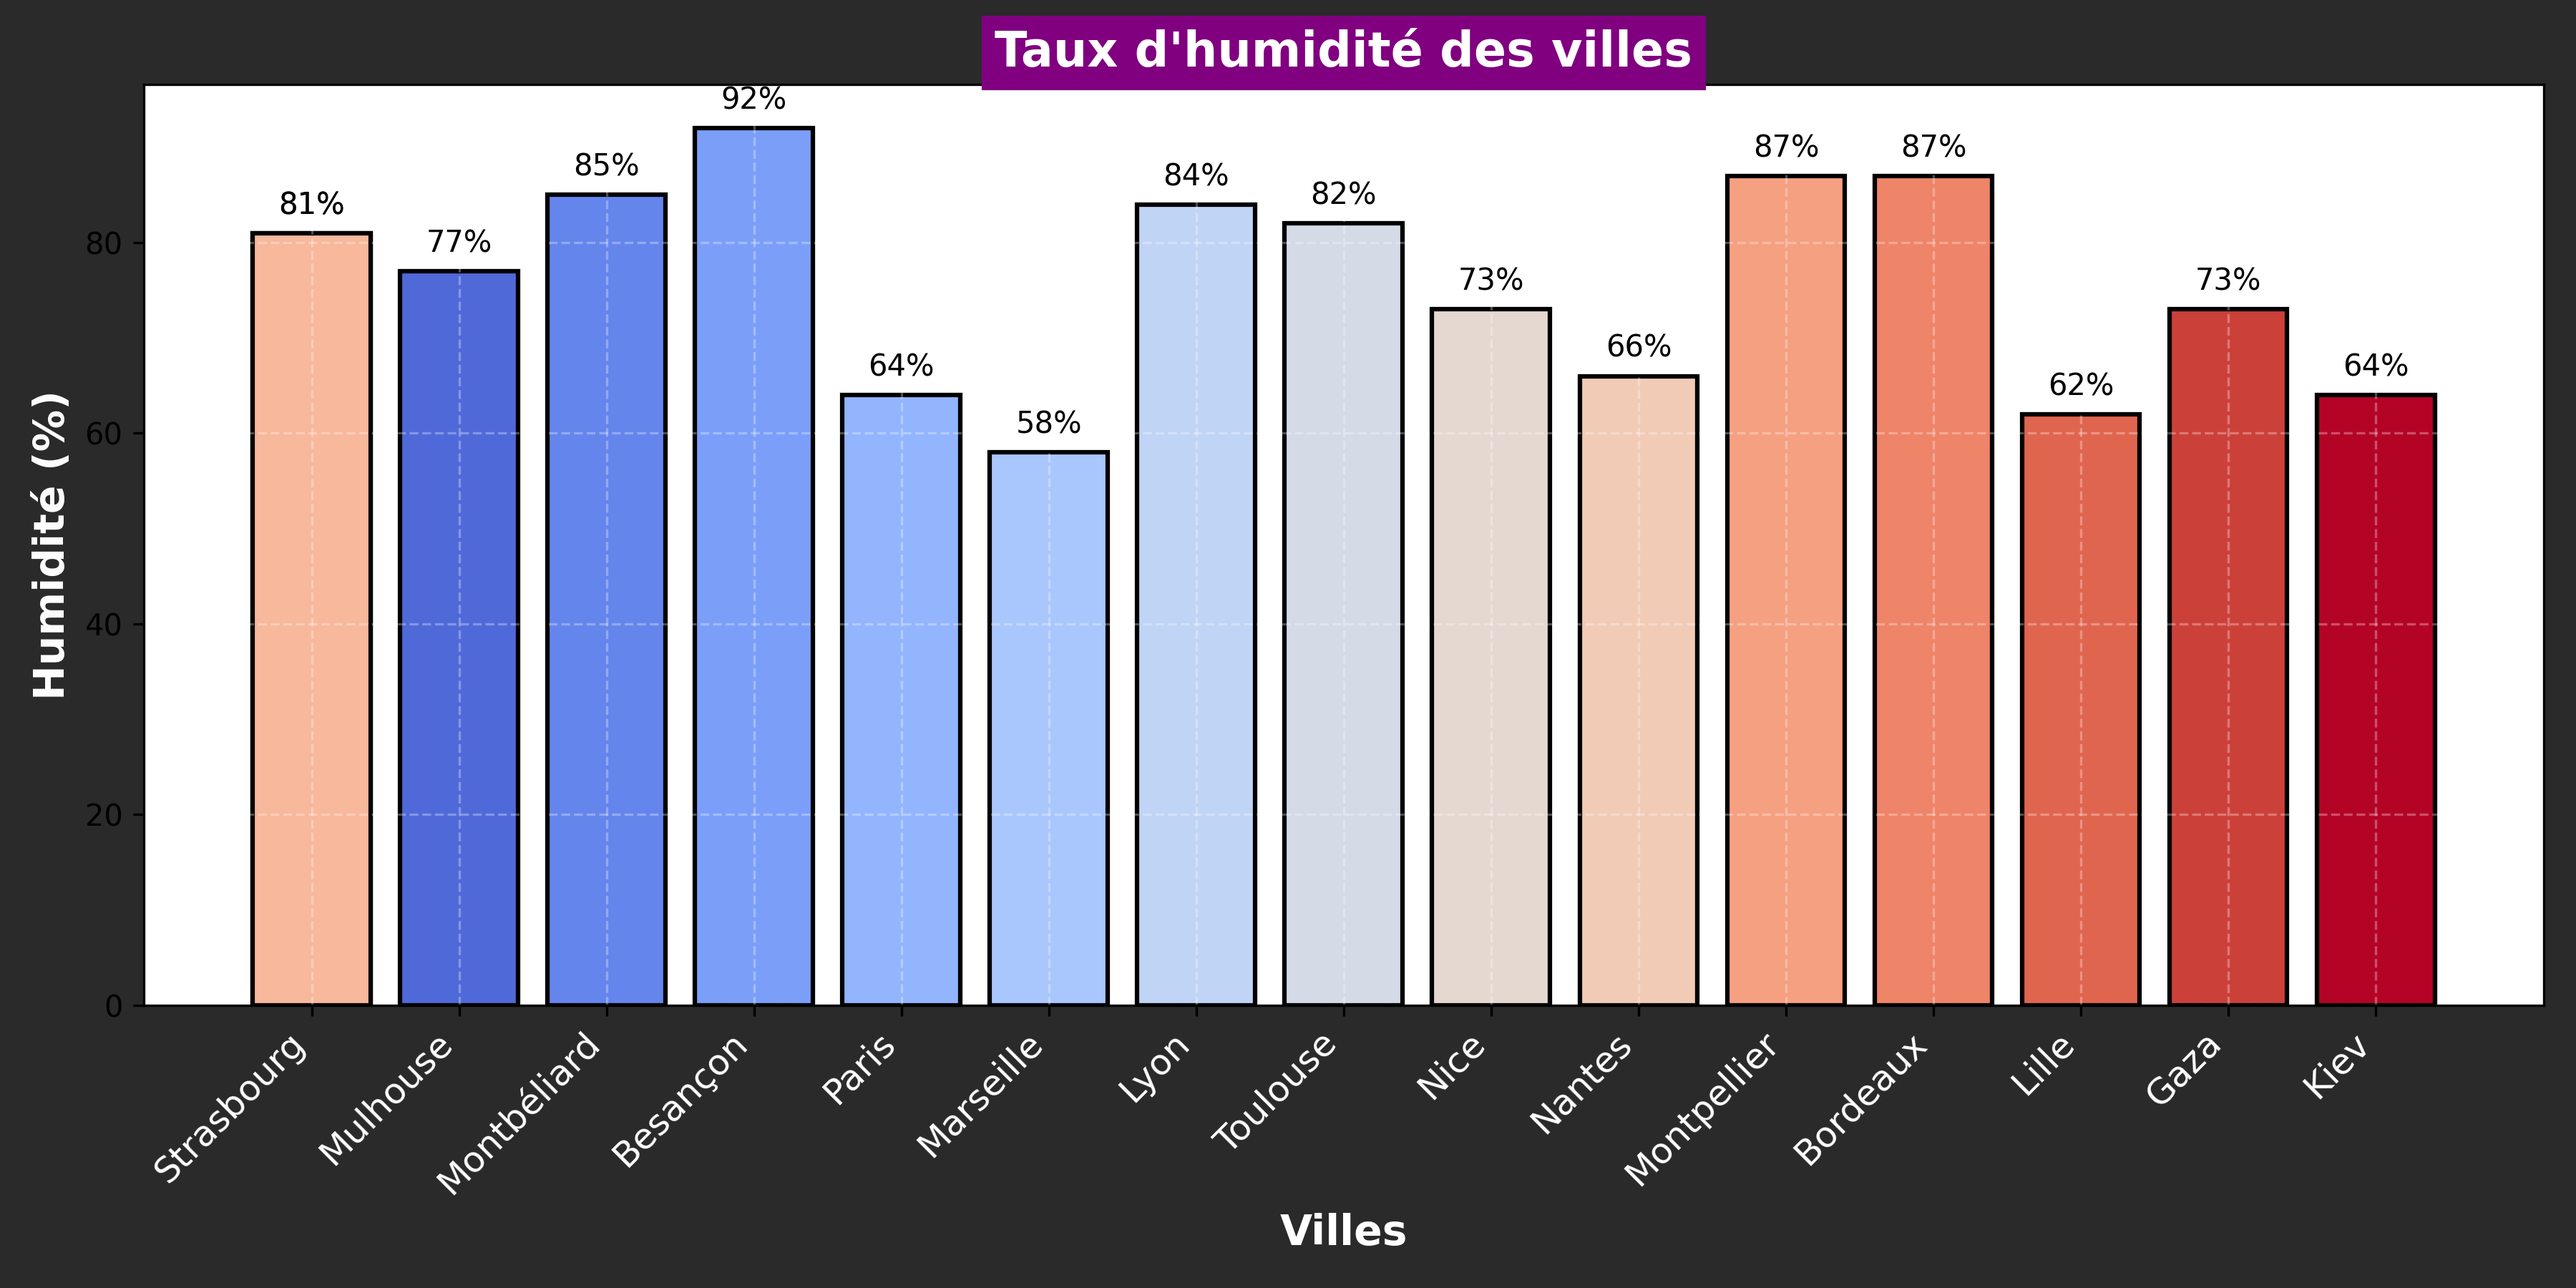
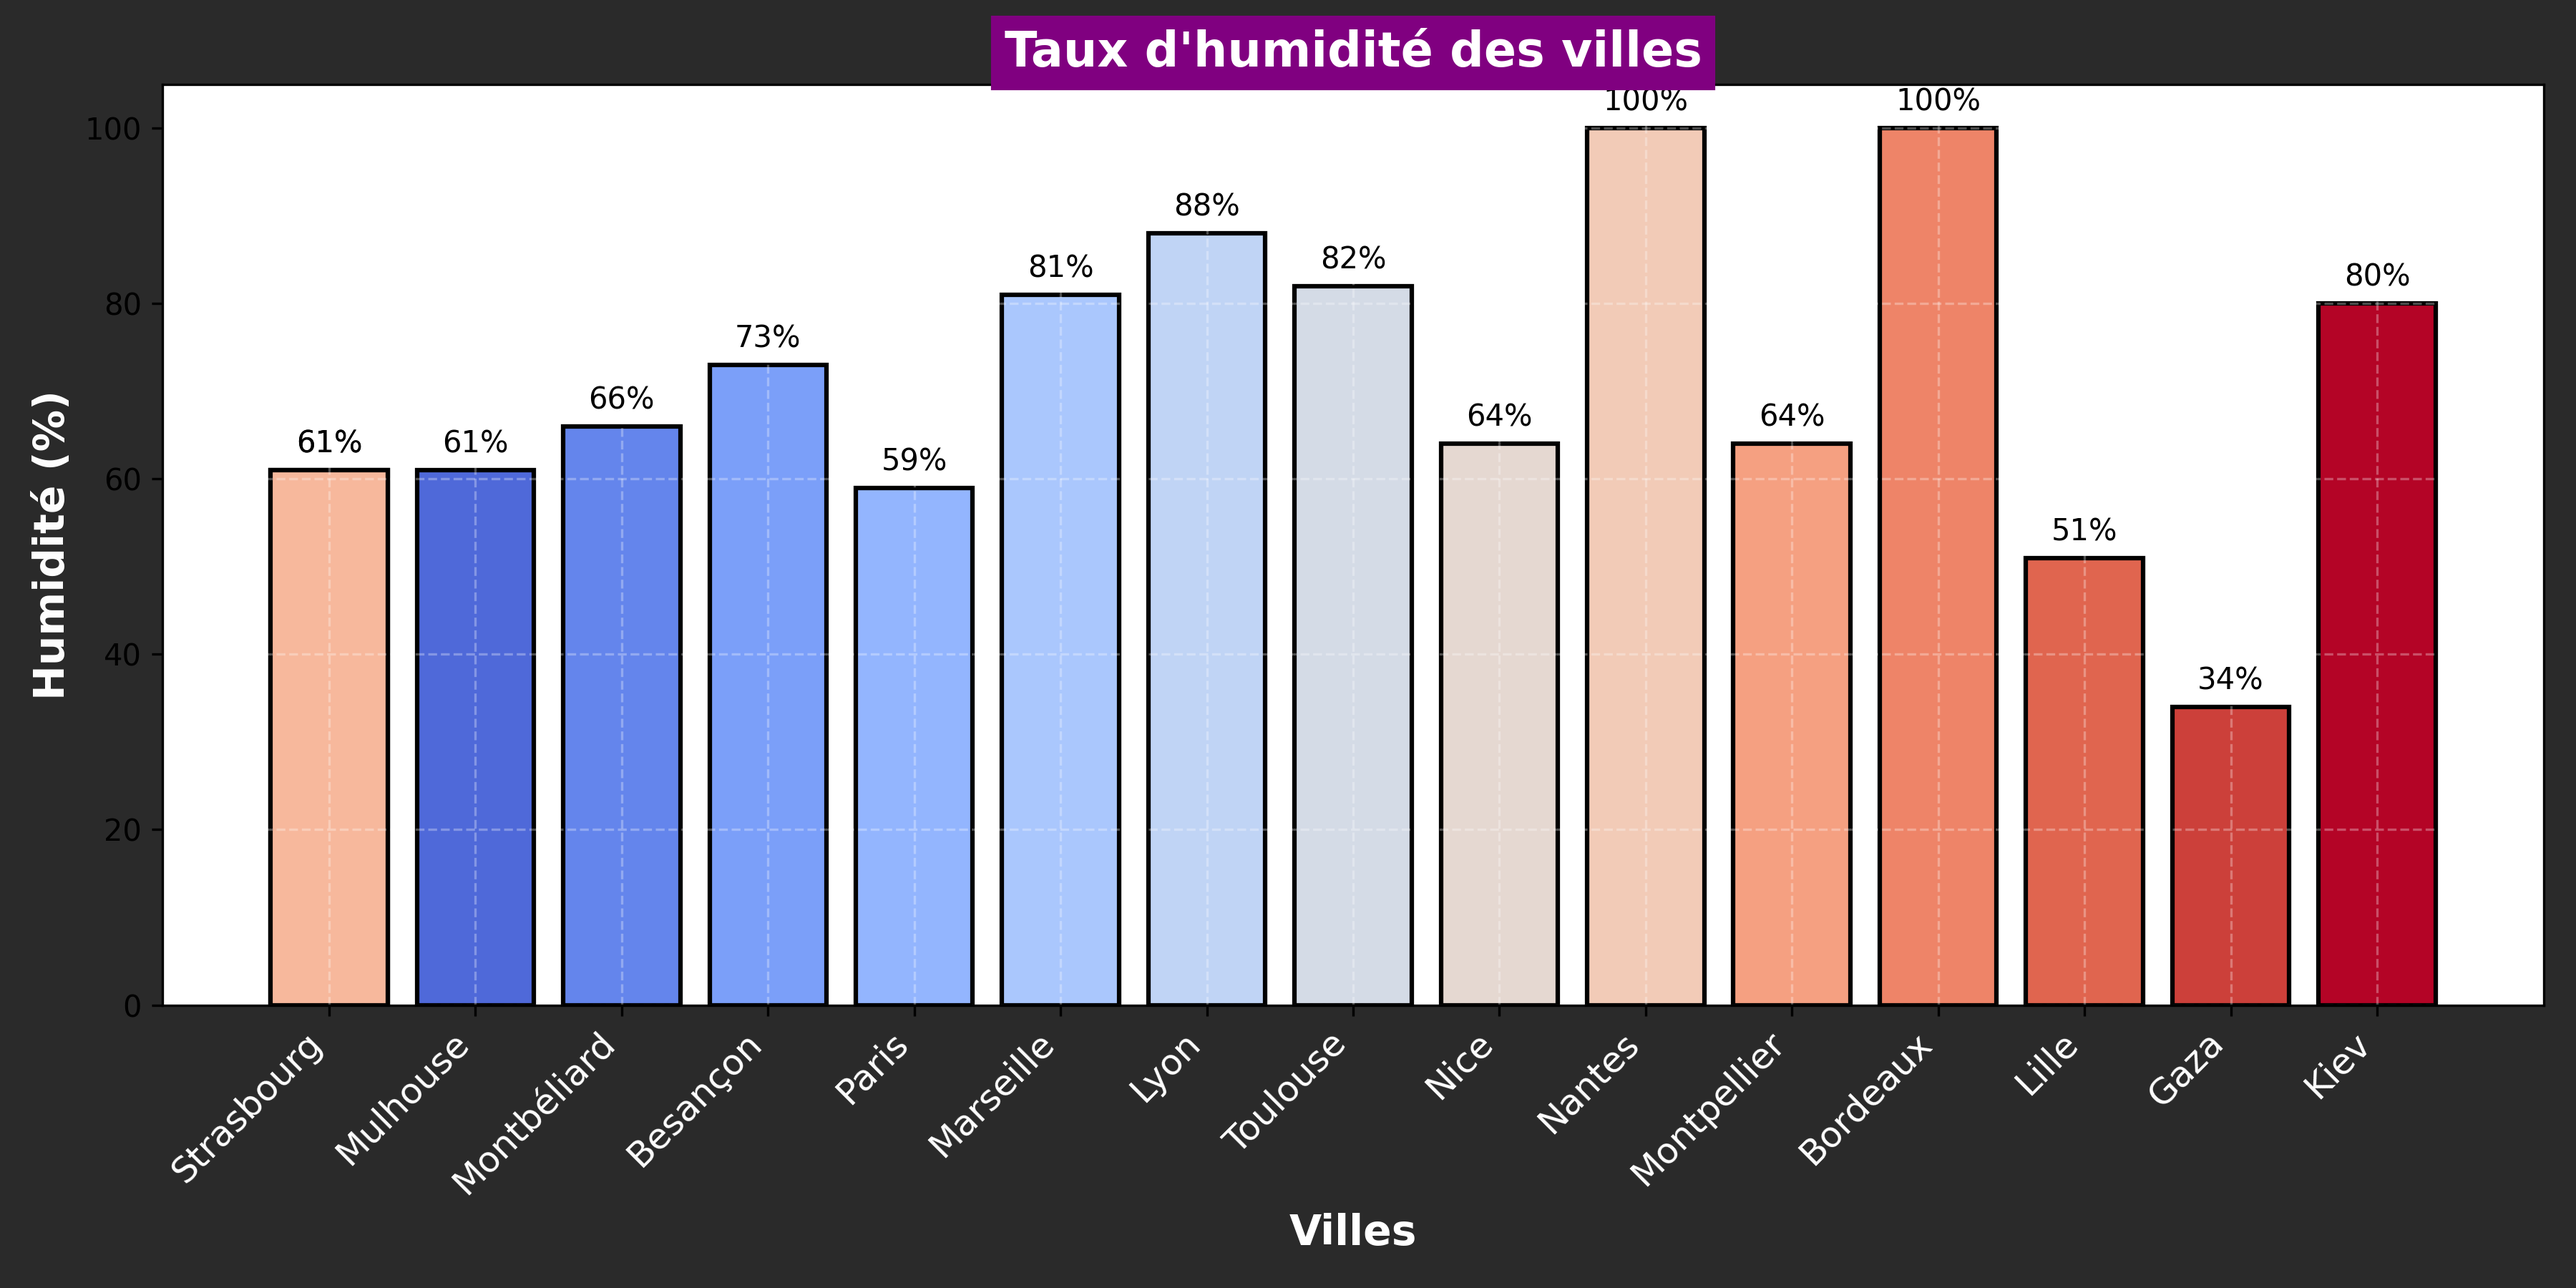
Mise à jour de la météo et ajout du graphique d'humidité

diff --git a/README.md b/README.md
@@ -24,103 +24,103 @@ Ce repo contient plusieurs workflows GitHub Actions :
 ## Météo actuelle :
 ## Météo des grandes villes + Gaza et Kiev 🌍
 
-🕒 Mise à jour : 05/04/2025 08:14:45
+🕒 Mise à jour : 06/04/2025 08:15:43
 
 ### 🌍 Strasbourg ☀
 **Conditions :** ciel dégagé
-**Température :** 5.99°C
-**Humidité :** 81%
-**Vent :** 1.54 m/s
+**Température :** 6.08°C
+**Humidité :** 61%
+**Vent :** 7.72 m/s
 
-### 🌍 Mulhouse ☀
-**Conditions :** ciel dégagé
-**Température :** 7.6°C
-**Humidité :** 77%
-**Vent :** 1.35 m/s
+### 🌍 Mulhouse 🌥
+**Conditions :** peu nuageux
+**Température :** 6.72°C
+**Humidité :** 61%
+**Vent :** 1.34 m/s
 
 ### 🌍 Montbéliard ☀
 **Conditions :** ciel dégagé
-**Température :** 11.1°C
-**Humidité :** 85%
-**Vent :** 0.88 m/s
+**Température :** 7.77°C
+**Humidité :** 66%
+**Vent :** 6.39 m/s
 
-### 🌍 Besançon ☀
-**Conditions :** ciel dégagé
-**Température :** 9.38°C
-**Humidité :** 92%
-**Vent :** 1.38 m/s
+### 🌍 Besançon 🌥
+**Conditions :** partiellement nuageux
+**Température :** 5.07°C
+**Humidité :** 73%
+**Vent :** 3.87 m/s
 
 ### 🌍 Paris ☀
 **Conditions :** ciel dégagé
-**Température :** 11.33°C
-**Humidité :** 64%
-**Vent :** 3.6 m/s
+**Température :** 9.88°C
+**Humidité :** 59%
+**Vent :** 4.12 m/s
 
-### 🌍 Marseille 🌥
-**Conditions :** couvert
-**Température :** 10.29°C
-**Humidité :** 58%
-**Vent :** 1.94 m/s
+### 🌍 Marseille ☀
+**Conditions :** ciel dégagé
+**Température :** 6.75°C
+**Humidité :** 81%
+**Vent :** 1.99 m/s
 
 ### 🌍 Lyon 🌥
-**Conditions :** nuageux
-**Température :** 6.96°C
-**Humidité :** 84%
-**Vent :** 0.72 m/s
+**Conditions :** partiellement nuageux
+**Température :** 7.51°C
+**Humidité :** 88%
+**Vent :** 1.43 m/s
 
-### 🌍 Toulouse 🌥
-**Conditions :** peu nuageux
-**Température :** 10.99°C
+### 🌍 Toulouse ☀
+**Conditions :** ciel dégagé
+**Température :** 11.99°C
 **Humidité :** 82%
+**Vent :** 5.14 m/s
+
+### 🌍 Nice ☀
+**Conditions :** ciel dégagé
+**Température :** 6.94°C
+**Humidité :** 64%
 **Vent :** 2.06 m/s
 
-### 🌍 Nice 🌥
-**Conditions :** nuageux
-**Température :** 1.36°C
-**Humidité :** 73%
-**Vent :** 2.31 m/s
-
-### 🌍 Nantes ☀
-**Conditions :** ciel dégagé
-**Température :** 11.96°C
-**Humidité :** 66%
-**Vent :** 3.09 m/s
+### 🌍 Nantes 🌫
+**Conditions :** brouillard
+**Température :** 8.96°C
+**Humidité :** 100%
+**Vent :** 1.03 m/s
 
 ### 🌍 Strasbourg ☀
 **Conditions :** ciel dégagé
-**Température :** 5.99°C
-**Humidité :** 81%
-**Vent :** 1.54 m/s
+**Température :** 6.08°C
+**Humidité :** 61%
+**Vent :** 7.72 m/s
 
 ### 🌍 Montpellier ☀
 **Conditions :** ciel dégagé
-**Température :** 8.71°C
-**Humidité :** 87%
+**Température :** 14.72°C
+**Humidité :** 64%
 **Vent :** 4.12 m/s
 
-### 🌍 Bordeaux ☀
-**Conditions :** ciel dégagé
-**Température :** 10.15°C
-**Humidité :** 87%
+### 🌍 Bordeaux 🌥
+**Conditions :** couvert
+**Température :** 12.15°C
+**Humidité :** 100%
 **Vent :** 3.6 m/s
 
 ### 🌍 Lille ☀
 **Conditions :** ciel dégagé
-**Température :** 10.43°C
-**Humidité :** 62%
+**Température :** 7.24°C
+**Humidité :** 51%
 **Vent :** 4.63 m/s
 
 ### 🌍 Gaza ☀
 **Conditions :** ciel dégagé
-**Température :** 18.04°C
-**Humidité :** 73%
-**Vent :** 3.32 m/s
+**Température :** 23.51°C
+**Humidité :** 34%
+**Vent :** 2.1 m/s
 
 ### 🌍 Kiev 🌥
 **Conditions :** couvert
-**Température :** 11.36°C
-**Humidité :** 64%
-**Vent :** 2.92 m/s
+**Température :** 3.18°C
+**Humidité :** 80%
+**Vent :** 2.98 m/s
 
 <p align='center'><img src='https://raw.githubusercontent.com/khoa083/khoa/main/Khoa_ne/img/Rainbow.gif' width='100%' style='border-radius: 5px; border: 3px solid #39FF14; box-shadow: 0 0 10px #39FF14, 0 0 20px #39FF14;' /></p>
 
